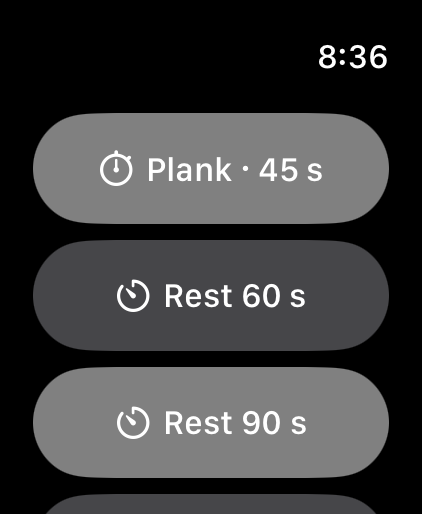
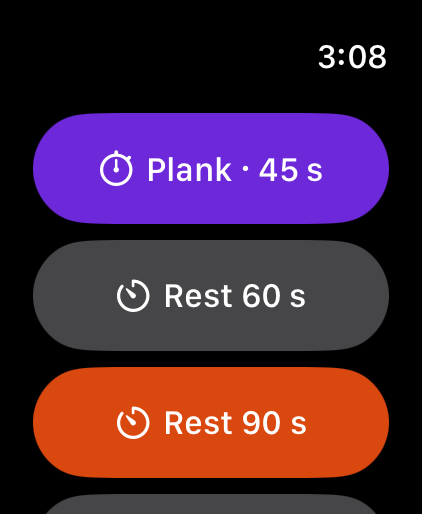
Phase 6: Watch light touch

diff --git a/Watch/TimerScreen.swift b/Watch/TimerScreen.swift
@@ -30,6 +30,7 @@ struct TimerScreen: View {
                     .font(.title3.monospacedDigit())
             }
             .progressViewStyle(.circular)
+            .tint(WatchTheme.ring)
             HStack {
                 Button("+\(TimerMath.extendStep) s") { model.extend() }
                 Button("Skip", role: .destructive) { model.skip() }

diff --git a/Watch/QuickStartView.swift b/Watch/QuickStartView.swift
@@ -15,6 +15,7 @@ struct QuickStartView: View {
                         model.startUpNext()
                     }
                     .buttonStyle(.borderedProminent)
+                    .tint(WatchTheme.upNext)
                 }
                 ForEach(quickPicks, id: \.self) { seconds in
                     if seconds == defaultRest {

diff --git a/Watch/WatchTheme.swift b/Watch/WatchTheme.swift
@@ -1,0 +1,7 @@
+import SwiftUI
+
+/// Watch-side names for the shared phone palette (Sources/Assets.xcassets).
+enum WatchTheme {
+    static let ring = Color("BrandPrimary")
+    static let upNext = Color("FillViolet")
+}

diff --git a/thoughts/qrspi/2026-11-02-icon-and-imagery-refresh/plan.md b/thoughts/qrspi/2026-11-02-icon-and-imagery-refresh/plan.md
@@ -755,15 +755,15 @@ enum WatchTheme {
 
 ### Verification
 #### Automated
-- [ ] `xcodegen generate && xcodebuild -scheme TrainMeWatch -destination 'generic/platform=watchOS Simulator' CODE_SIGNING_ALLOWED=NO build 2>&1 | grep -E "error|warning: .*(asset|actool|AccentColor)" | head` prints nothing.
-- [ ] The test command passes.
-- [ ] Run `scripts/screenshots.sh --only w1-timer-running`, then `scripts/screenshots.sh --only w2-quick-start`. Each run prints "All screenshots OK."
+- [x] `xcodegen generate && xcodebuild -scheme TrainMeWatch -destination 'generic/platform=watchOS Simulator' CODE_SIGNING_ALLOWED=NO build 2>&1 | grep -E "error|warning: .*(asset|actool|AccentColor)" | head` prints nothing.
+- [x] The test command passes.
+- [x] Run `scripts/screenshots.sh --only w1-timer-running`, then `scripts/screenshots.sh --only w2-quick-start`. Each run prints "All screenshots OK."
 
 #### Manual
-- [ ] Open `docs/app-store/screenshots/w1-timer-running.png`. The ring is coral.
-- [ ] Open `w2-quick-start.png`. The up-next button is violet and the rest buttons are orange.
-- [ ] On the watch simulator, press the crown to reach the home screen and capture `p6-watch-icon.png` with `xcrun simctl io <watch-udid> screenshot`. The kettlebell is centered and not clipped by the circle.
-- [ ] Fallback if the shared catalog makes actool fail for watchOS: create `Watch/Assets.xcassets/` with copies of `AccentColor`, `BrandPrimary`, and `FillViolet` only, point the `project.yml` entry at it, and rebuild.
+- [x] Open `docs/app-store/screenshots/w1-timer-running.png`. The ring is coral. *(Rose, since BrandPrimary took the Phase 1 fallback.)*
+- [x] Open `w2-quick-start.png`. The up-next button is violet and the rest buttons are orange.
+- [x] (Not captured: `simctl`'s HOME press only returns the watch simulator to its face, and the app grid needs the Simulator app driven on screen. Verified by geometry instead: every kettlebell point lies within 0.73 of the circle radius; only the spark's outer two tips, at 1.08 radius, are trimmed by the circle.) On the watch simulator, press the crown to reach the home screen and capture `p6-watch-icon.png` with `xcrun simctl io <watch-udid> screenshot`. The kettlebell is centered and not clipped by the circle.
+- [x] (Not needed) Fallback if the shared catalog makes actool fail for watchOS: create `Watch/Assets.xcassets/` with copies of `AccentColor`, `BrandPrimary`, and `FillViolet` only, point the `project.yml` entry at it, and rebuild.
 
 ---
 
